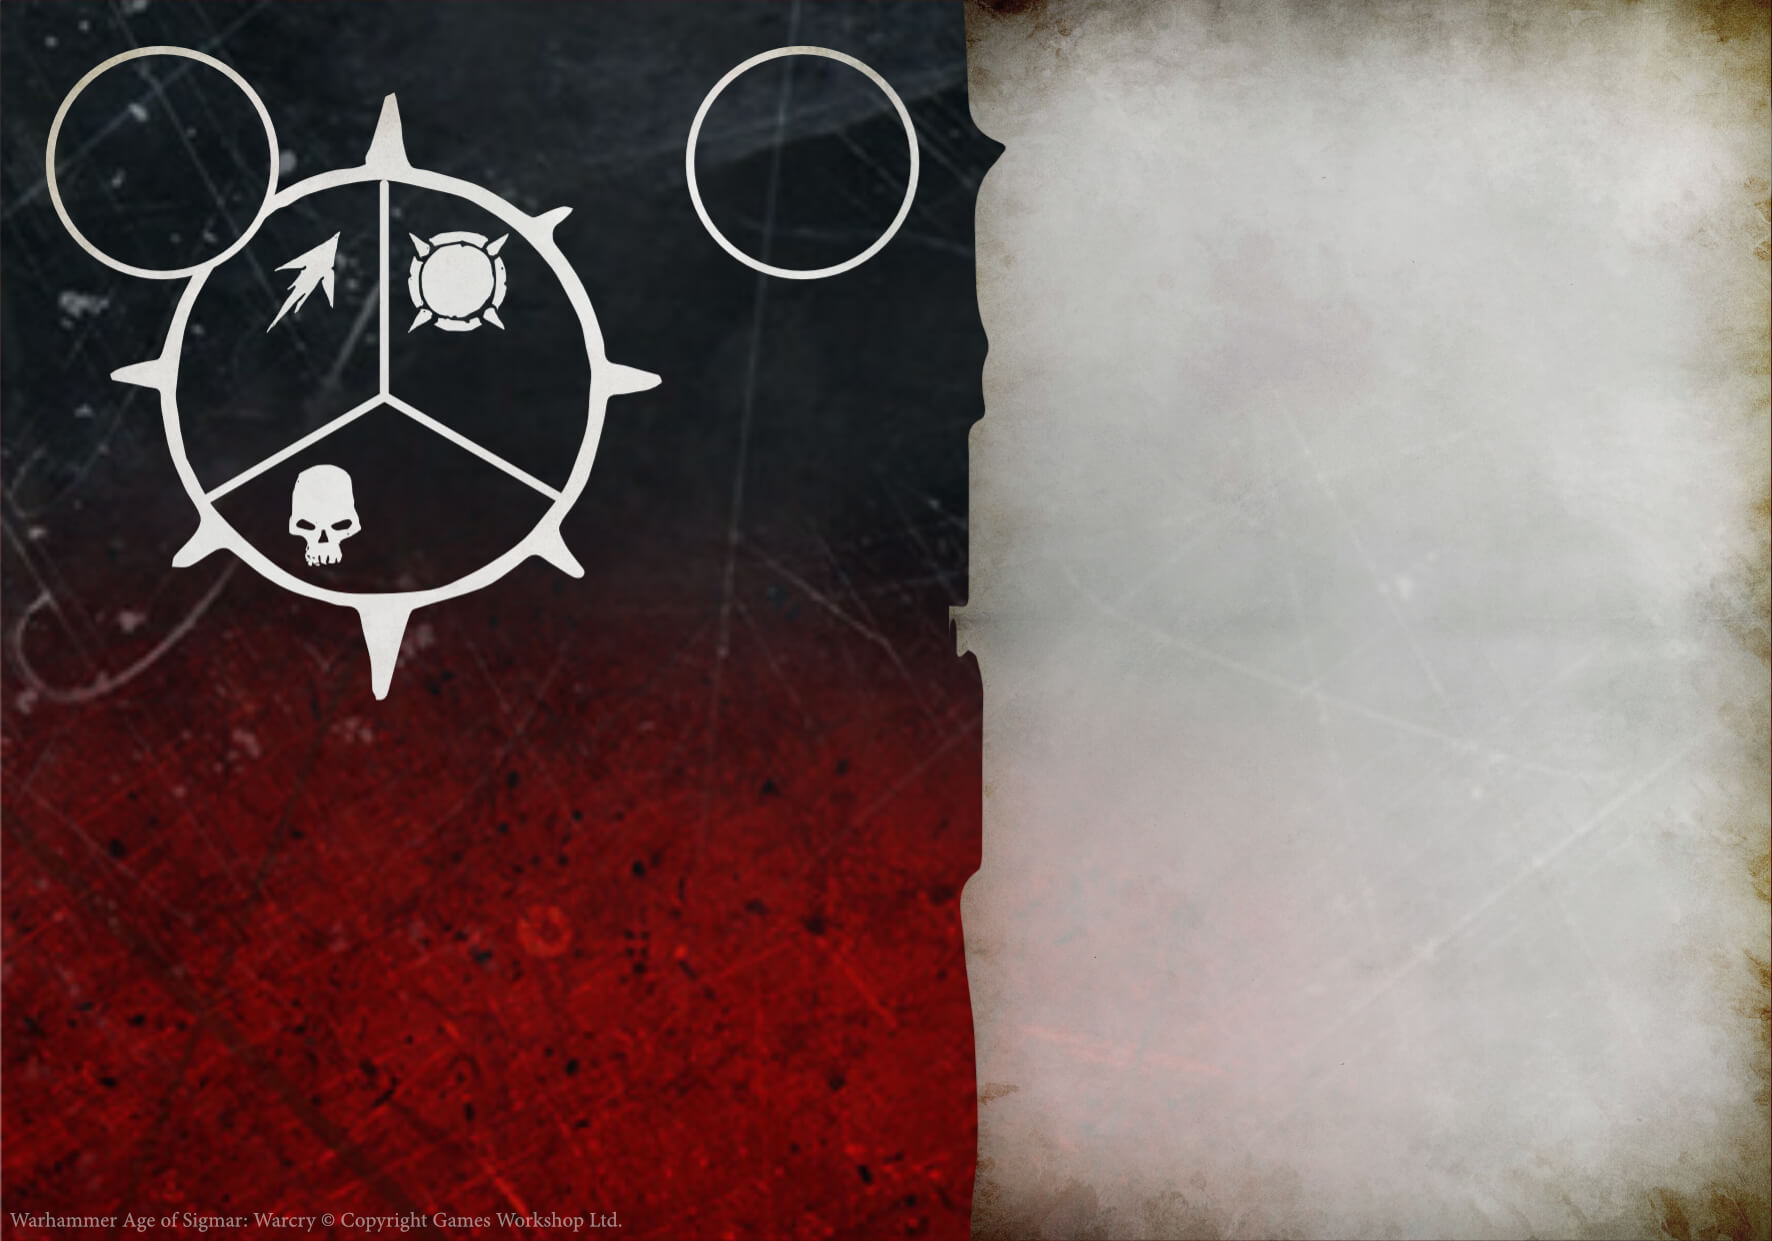
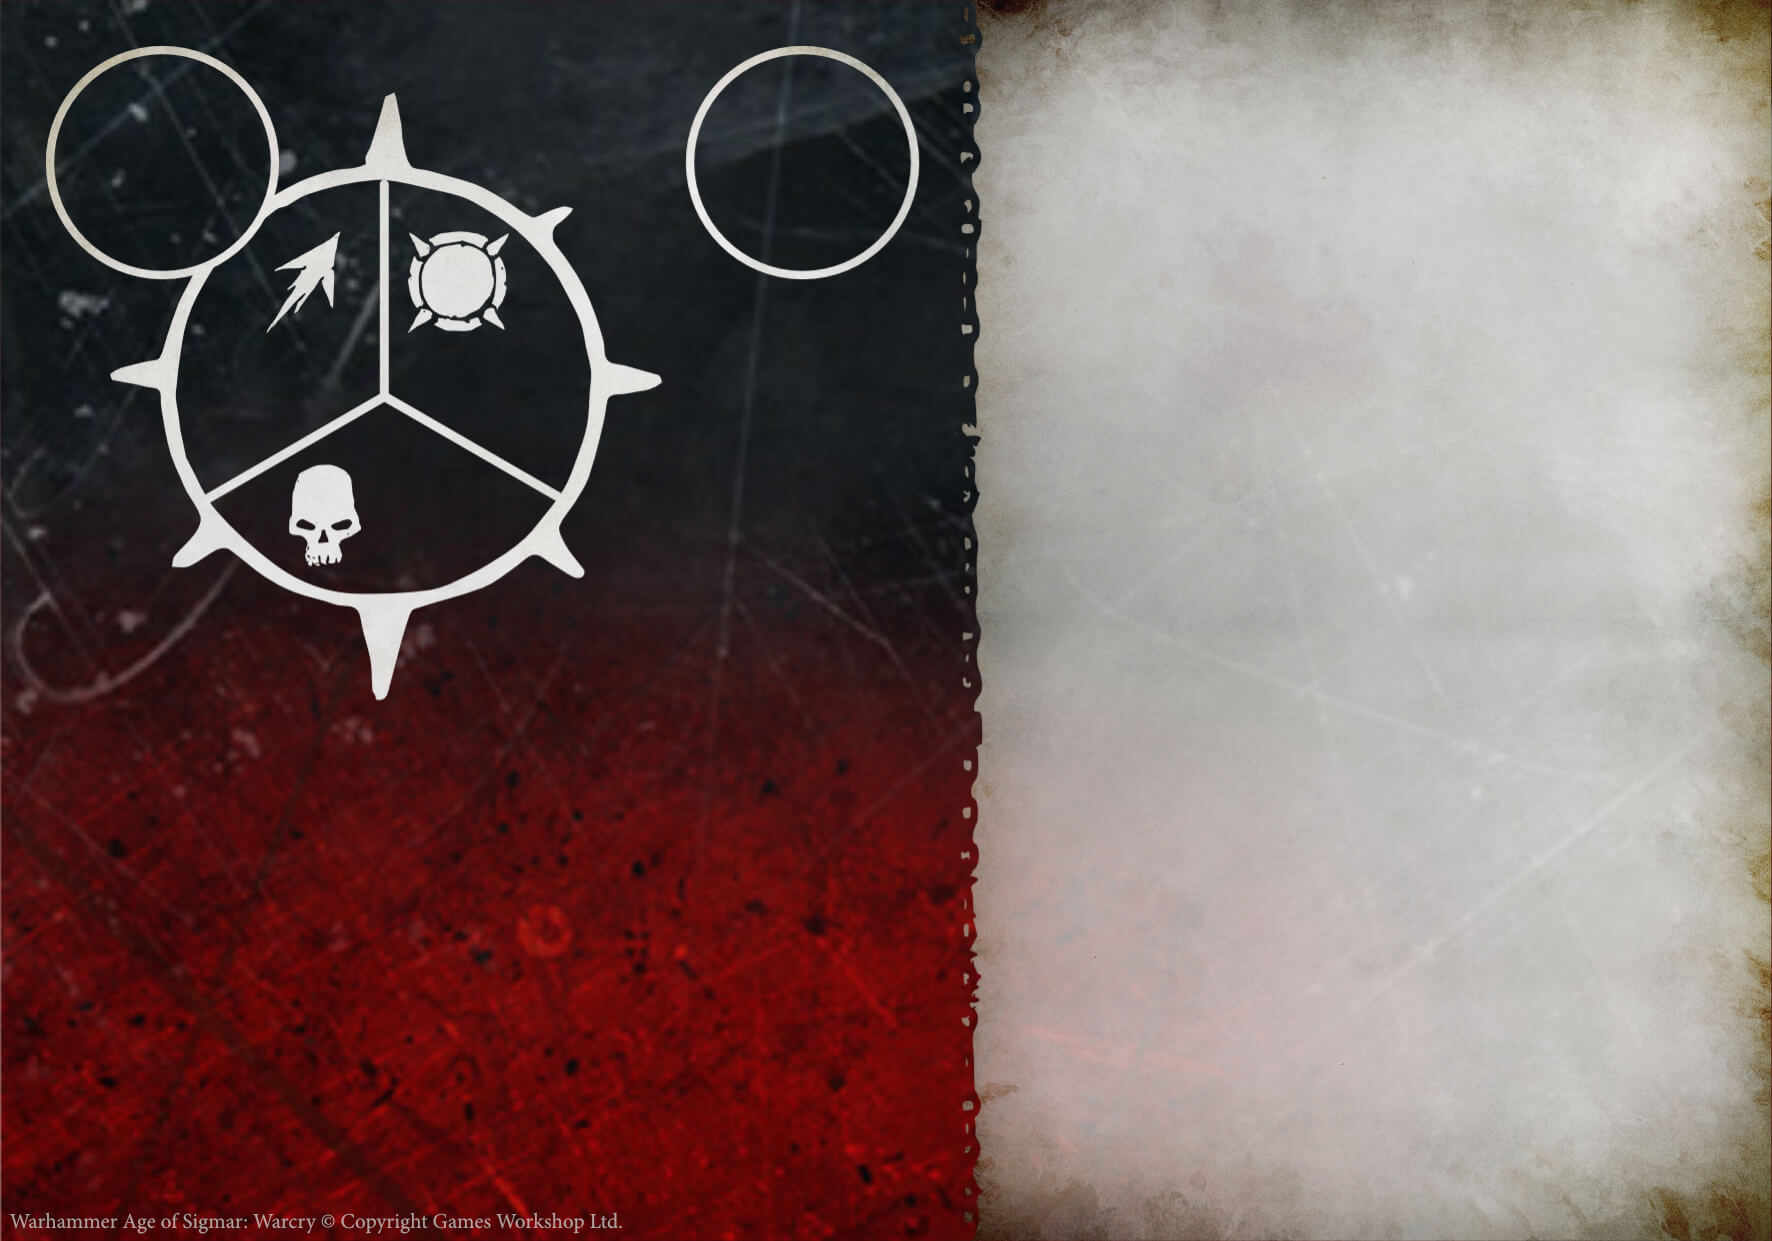
one more background, peeps

diff --git a/_includes/fighters/section-background.html b/_includes/fighters/section-background.html
@@ -21,6 +21,11 @@
                 <label class="form-check-label" for="backgroundStyleTwo">Style 2</label>
             </div>
 
+            <div class="form-check">
+                <input class="form-check-input" id="backgroundStyleThree" name="toggle-bg-abilities" oninput="onAnyChange()" type="radio">
+                <label class="form-check-label" for="backgroundStyleThree">Style 3</label>
+            </div>
+
             <div class="form-group mt-4">
                 <label for="backgroundSelect">Load custom background</label>
                 <input disabled aria-describedby="fileHelp" class="form-control-file" id="backgroundSelect" oninput="onAnyChange()" type="file">

diff --git a/_includes/tabs/tabContentFighters.html b/_includes/tabs/tabContentFighters.html
@@ -3,6 +3,7 @@
     <div class="col-lg-8">
         <img id="warcryCardOne" style="display: none;" src="assets/img/fighters1.jpg">
         <img id="warcryCardTwo" style="display: none;" src="assets/img/fighters2.jpg">
+        <img id="warcryCardThree" style="display: none;" src="assets/img/fighters3.jpg">
         <img id="weapon-profile" style="display: none;" src="assets/img/weapon-profile.png">
         <img id="circle" style="display: none;" src="assets/img/circle.png">
         <canvas class="canvas rounded" id="canvas" width="1772" height="1241">

diff --git a/assets/js/fighters.js b/assets/js/fighters.js
@@ -32,6 +32,9 @@ getBackgroundImage = function() {
     } else if (document.getElementById("backgroundStyleTwo").checked) {
         return document.getElementById("warcryCardTwo");
 
+    } else if (document.getElementById("backgroundStyleThree").checked) {
+        return document.getElementById("warcryCardThree");
+
     }
 }
 
